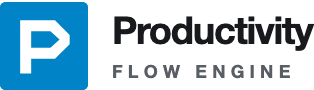
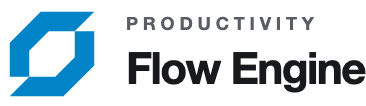
Create an open ribbon identity and Flow Engine wordmark

diff --git a/web/src/styles.css b/web/src/styles.css
@@ -43,8 +43,8 @@ input[type=date]{color-scheme:inherit} textarea{resize:vertical} summary{cursor:
 /* A compact, shared navigation leaves the width of the screen for the work. */
 .app-shell{min-height:100vh}
 .workspace-header{position:sticky;top:0;z-index:10;display:flex;align-items:center;gap:24px;min-height:84px;padding:14px max(28px,calc((100vw - 1480px)/2));border-bottom:1px solid var(--line);background:var(--surface)}
-.brand{display:flex;align-items:center;gap:12px;flex-shrink:0;color:var(--text);font-size:19px;font-weight:700;letter-spacing:-.65px;line-height:1.1}
-.brand-mark{display:block;flex-shrink:0;width:44px;height:44px;border-radius:3px;background:var(--primary)}.brand-mark img{display:block;width:100%;height:100%}.brand-wordmark{display:grid;gap:6px}.brand-name{display:block}.brand-sub{display:block;font-size:9px;letter-spacing:2.6px;line-height:1;color:var(--muted);font-weight:650}
+.brand{display:flex;align-items:center;gap:11px;flex-shrink:0;color:var(--text);line-height:1}
+.brand-mark{display:block;flex-shrink:0;width:52px;height:52px}.brand-mark img{display:block;width:100%;height:100%}.brand-wordmark{display:grid;gap:7px}.brand-name{display:block;font-size:22px;font-weight:750;letter-spacing:-.8px;line-height:1.05}.brand-sub{display:block;font-size:9px;letter-spacing:2.4px;line-height:1;color:var(--muted);font-weight:650}
 .workspace-header nav{display:flex;align-items:center;gap:4px;margin:auto}
 .nav-item{display:flex;align-items:center;justify-content:center;gap:7px;background:none;color:var(--muted);border:1px solid transparent;border-radius:2px;padding:11px 10px;font-size:12px;font-weight:550;min-height:44px;white-space:nowrap}
 .nav-item:hover{background:var(--surface-soft);color:var(--text)}
@@ -156,9 +156,9 @@ main.public-page{margin:auto;max-width:920px;padding:26px}.privacy-toolbar{displ
 @media(max-width:1270px){.workspace-header{gap:15px;padding:14px 22px;flex-wrap:wrap}.workspace-header nav{order:3;width:100%;margin:0;justify-content:center}.topbar-actions{margin-left:auto}.has-result .source-column{top:155px;max-height:calc(100vh - 177px)}}
 @media(max-width:1100px){.extraction-grid{grid-template-columns:minmax(0,1fr)}.has-result .source-column{position:static;max-height:none;overflow:visible;scrollbar-gutter:auto;padding:0}.review-placeholder{min-height:0}.review-placeholder .plan-principles{grid-template-columns:repeat(3,minmax(0,1fr));gap:18px}.review-placeholder h2{max-width:none}.workspace-summary{grid-template-columns:repeat(2,minmax(0,1fr))}.metric-card:nth-child(2){border-right:0}.metric-card:nth-child(-n+2){border-bottom:1px solid var(--line)}.history-filters{grid-template-columns:1fr 1fr}.auth-layout{gap:50px;margin-top:30px}.auth-story h1{font-size:48px}.auth-card{padding:28px}}
 @media(max-width:760px){
- .workspace-header{position:static;padding:18px 16px 13px;gap:20px 12px}.brand{font-size:17px;gap:10px}.brand-mark{width:36px;height:36px}.brand-wordmark{gap:5px}.brand-sub{font-size:8px;letter-spacing:2.3px}.workspace-header nav{display:grid;grid-template-columns:repeat(3,minmax(0,1fr));gap:5px}.nav-item{width:100%;white-space:normal;font-size:11px;line-height:1.4;min-height:46px;gap:6px;padding:8px 7px}.nav-item svg{flex-shrink:0;width:15px;height:15px}.topbar-actions{gap:6px;flex-wrap:wrap;justify-content:flex-start}.theme-control{font-size:10px}.account-name{max-width:110px}.topbar-actions .text-button{font-size:11px;padding:4px}.topbar{padding:18px 18px 0;font-size:10px}.local-badge{font-size:10px}.content{padding:24px 18px 20px}.page-intro{margin-bottom:24px}.page-intro h1{font-size:29px}.extraction-intro h1{font-size:38px;letter-spacing:-1.8px;max-width:460px}.intro-note{display:none}.page-intro p{font-size:13px}.steps{gap:15px;justify-content:space-between;font-size:10px}.steps span{gap:7px}.steps b{width:23px;height:23px}.transcript-panel,.saved-source-panel,.proposal-card,.confirmed-card{padding:20px}.panel-heading{gap:12px;flex-wrap:wrap}.panel-heading h2{font-size:18px}.welcome-actions{flex-direction:column}.welcome-actions .button{width:100%;flex:none}.transcript{min-height:260px}.review-placeholder{padding:24px}.review-placeholder .plan-principles{grid-template-columns:1fr}.review-placeholder h2{font-size:25px}.workspace-summary{gap:0}.metric-card{padding:16px}.metric-card>strong{font-size:29px}.metric-card>span,.metric-card>small{font-size:11px}.field-row{gap:12px}.evidence{padding:14px}.evidence-footer{display:block}.evidence-jump{display:flex}.confirm-bar{padding:14px;gap:12px;flex-wrap:wrap}.confirm-bar .button{flex:1}.confirm-bar strong{font-size:12px}.confirm-bar span{font-size:11px}.section-heading{flex-wrap:wrap;align-items:flex-start}.section-heading h2{font-size:19px}.result-meta{flex-wrap:wrap}.history-filters{grid-template-columns:1fr;padding:20px}.history-card{flex-wrap:wrap;padding:20px}.history-copy{flex-basis:100%}.history-card>.button{width:100%}.history-title h3{font-size:15px}.stat-grid{gap:10px}.stat{padding:16px}.stat>strong{font-size:26px}.stat>span{font-size:9px}.stat small{font-size:11px}.benchmark-panel,.case-panel,.annotation-panel,.data-panel{padding:20px}.case-columns{grid-template-columns:1fr}.event-time{display:block;float:none;margin-top:6px}.storage-grid{grid-template-columns:1fr}.data-entry{align-items:flex-start;gap:12px}.data-entry .badge{display:block;margin:8px 0}.annotation-case{flex-direction:column;align-items:flex-start}.annotation-panel .field-row{grid-template-columns:minmax(0,1fr)}.annotation-panel .button{max-width:100%;white-space:normal;overflow-wrap:anywhere}.erasure-dialog{padding:20px}.meeting-actions{justify-content:flex-start}.meeting-actions .button{flex:1}.page-footer{font-size:10px;gap:14px}.json{font-size:11px;padding:13px}.auth-header{min-height:80px;align-items:center}main.auth-shell{padding:0 18px 25px}.auth-layout{grid-template-columns:minmax(0,1fr);gap:32px;margin:28px auto 40px}.auth-story h1{font-size:44px;letter-spacing:-2px}.auth-story>p{font-size:14px}.auth-features{display:none}.story-steps{grid-template-columns:repeat(2,minmax(0,1fr));margin-top:25px}.auth-card{padding:25px}.auth-footer{font-size:10px}main.public-page{padding:18px}.privacy-copy{padding:23px}.privacy-copy h1{font-size:29px}
+ .workspace-header{position:static;padding:18px 16px 13px;gap:20px 12px}.brand{gap:9px}.brand-mark{width:42px;height:42px}.brand-wordmark{gap:6px}.brand-name{font-size:20px;letter-spacing:-.65px}.brand-sub{font-size:8px;letter-spacing:2.3px}.workspace-header nav{display:grid;grid-template-columns:repeat(3,minmax(0,1fr));gap:5px}.nav-item{width:100%;white-space:normal;font-size:11px;line-height:1.4;min-height:46px;gap:6px;padding:8px 7px}.nav-item svg{flex-shrink:0;width:15px;height:15px}.topbar-actions{gap:6px;flex-wrap:wrap;justify-content:flex-start}.theme-control{font-size:10px}.account-name{max-width:110px}.topbar-actions .text-button{font-size:11px;padding:4px}.topbar{padding:18px 18px 0;font-size:10px}.local-badge{font-size:10px}.content{padding:24px 18px 20px}.page-intro{margin-bottom:24px}.page-intro h1{font-size:29px}.extraction-intro h1{font-size:38px;letter-spacing:-1.8px;max-width:460px}.intro-note{display:none}.page-intro p{font-size:13px}.steps{gap:15px;justify-content:space-between;font-size:10px}.steps span{gap:7px}.steps b{width:23px;height:23px}.transcript-panel,.saved-source-panel,.proposal-card,.confirmed-card{padding:20px}.panel-heading{gap:12px;flex-wrap:wrap}.panel-heading h2{font-size:18px}.welcome-actions{flex-direction:column}.welcome-actions .button{width:100%;flex:none}.transcript{min-height:260px}.review-placeholder{padding:24px}.review-placeholder .plan-principles{grid-template-columns:1fr}.review-placeholder h2{font-size:25px}.workspace-summary{gap:0}.metric-card{padding:16px}.metric-card>strong{font-size:29px}.metric-card>span,.metric-card>small{font-size:11px}.field-row{gap:12px}.evidence{padding:14px}.evidence-footer{display:block}.evidence-jump{display:flex}.confirm-bar{padding:14px;gap:12px;flex-wrap:wrap}.confirm-bar .button{flex:1}.confirm-bar strong{font-size:12px}.confirm-bar span{font-size:11px}.section-heading{flex-wrap:wrap;align-items:flex-start}.section-heading h2{font-size:19px}.result-meta{flex-wrap:wrap}.history-filters{grid-template-columns:1fr;padding:20px}.history-card{flex-wrap:wrap;padding:20px}.history-copy{flex-basis:100%}.history-card>.button{width:100%}.history-title h3{font-size:15px}.stat-grid{gap:10px}.stat{padding:16px}.stat>strong{font-size:26px}.stat>span{font-size:9px}.stat small{font-size:11px}.benchmark-panel,.case-panel,.annotation-panel,.data-panel{padding:20px}.case-columns{grid-template-columns:1fr}.event-time{display:block;float:none;margin-top:6px}.storage-grid{grid-template-columns:1fr}.data-entry{align-items:flex-start;gap:12px}.data-entry .badge{display:block;margin:8px 0}.annotation-case{flex-direction:column;align-items:flex-start}.annotation-panel .field-row{grid-template-columns:minmax(0,1fr)}.annotation-panel .button{max-width:100%;white-space:normal;overflow-wrap:anywhere}.erasure-dialog{padding:20px}.meeting-actions{justify-content:flex-start}.meeting-actions .button{flex:1}.page-footer{font-size:10px;gap:14px}.json{font-size:11px;padding:13px}.auth-header{min-height:80px;align-items:center}main.auth-shell{padding:0 18px 25px}.auth-layout{grid-template-columns:minmax(0,1fr);gap:32px;margin:28px auto 40px}.auth-story h1{font-size:44px;letter-spacing:-2px}.auth-story>p{font-size:14px}.auth-features{display:none}.story-steps{grid-template-columns:repeat(2,minmax(0,1fr));margin-top:25px}.auth-card{padding:25px}.auth-footer{font-size:10px}main.public-page{padding:18px}.privacy-copy{padding:23px}.privacy-copy h1{font-size:29px}
 }
-@media(max-width:380px){.workspace-header{gap:16px 10px}.topbar-actions{width:100%;margin:0}.workspace-header nav{order:2}.topbar-actions{order:3}.topbar{font-size:10px;padding-inline:13px}.local-badge{display:none}.content{padding-inline:13px}.steps{flex-wrap:wrap;gap:9px;justify-content:flex-start}.extraction-intro h1{font-size:34px}.stat-grid{grid-template-columns:1fr}.field-row{grid-template-columns:1fr}.proposal-heading{flex-wrap:wrap}.keep{margin-left:0}.workspace-summary{grid-template-columns:1fr 1fr}.metric-card{padding:13px}.transcript-panel,.saved-source-panel,.proposal-card,.confirmed-card{padding:17px}.settings{flex-wrap:wrap}.settings label{min-width:115px}.auth-story h1{font-size:38px}.brand{font-size:17px}}
+@media(max-width:380px){.workspace-header{gap:16px 10px}.topbar-actions{width:100%;margin:0}.workspace-header nav{order:2}.topbar-actions{order:3}.topbar{font-size:10px;padding-inline:13px}.local-badge{display:none}.content{padding-inline:13px}.steps{flex-wrap:wrap;gap:9px;justify-content:flex-start}.extraction-intro h1{font-size:34px}.stat-grid{grid-template-columns:1fr}.field-row{grid-template-columns:1fr}.proposal-heading{flex-wrap:wrap}.keep{margin-left:0}.workspace-summary{grid-template-columns:1fr 1fr}.metric-card{padding:13px}.transcript-panel,.saved-source-panel,.proposal-card,.confirmed-card{padding:17px}.settings{flex-wrap:wrap}.settings label{min-width:115px}.auth-story h1{font-size:38px}}
 @media(prefers-reduced-motion:reduce){*{transition:none!important;scroll-behavior:auto!important}}
 /* Review workspaces: concise summaries, explicit decisions, and readable events. */
 [hidden]{display:none!important}

diff --git a/web/src/ProductBrand.jsx b/web/src/ProductBrand.jsx
@@ -1,4 +1,4 @@
 import React from 'react';
 export default function ProductBrand({onClick,href='/'}){
-  return <a href={href} className="brand" onClick={onClick} aria-label="Productivity Flow Engine home"><span className="brand-mark" aria-hidden="true"><img src="/flow.svg?v=2" width="44" height="44" alt=""/></span><span className="brand-wordmark"><span className="brand-name">Productivity</span><span className="brand-sub">FLOW ENGINE</span></span></a>;
+  return <a href={href} className="brand" onClick={onClick} aria-label="Productivity Flow Engine home"><span className="brand-mark" aria-hidden="true"><img src="/flow.svg?v=3" width="52" height="52" alt=""/></span><span className="brand-wordmark"><span className="brand-sub">PRODUCTIVITY</span><span className="brand-name">Flow Engine</span></span></a>;
 }

diff --git a/web/index.html b/web/index.html
@@ -1,5 +1,5 @@
 <!doctype html>
 <html lang="en"><head><meta charset="UTF-8"/><meta name="viewport" content="width=device-width, initial-scale=1.0"/>
 <meta name="theme-color" content="#ffffff"/><meta name="description" content="Turn meeting transcripts into evidence-backed, reviewed action plans."/>
-<title>Productivity Flow Engine</title><link rel="icon" type="image/svg+xml" href="/flow.svg?v=2"/><script src="/theme.js"></script></head>
+<title>Productivity Flow Engine</title><link rel="icon" type="image/svg+xml" href="/flow.svg?v=3"/><script src="/theme.js"></script></head>
 <body><div id="root"></div><script type="module" src="/src/main.jsx"></script></body></html>

diff --git a/README.md b/README.md
@@ -17,11 +17,12 @@ history. Extraction improvements are measured against a retained annotated corpu
   <img src="docs/screenshots/brand-light.png" alt="Productivity Flow Engine brand" width="220">
 </picture>
 
-The geometric P mark uses a forward-arrow cutout to suggest progress into action.
-The shared header lockup pairs it with a tighter two-line wordmark, with a square
-mark on desktop and mobile. The same [SVG mark](web/public/flow.svg) is used for
+The mark interlocks two geometric ribbons with forward diagonal
+cuts, suggesting conversation flowing into action. Its open silhouette sits beside
+a prominent Flow Engine wordmark, with Productivity as the smaller descriptor. The same [SVG mark](web/public/flow.svg) is used for
 workspace and sign-in branding and the browser favicon. It uses the primary blue
-`#0084C7` and white, without shadows or gradients.
+`#0084C7` with no enclosing tile, shadows, or gradients. The SVG stays crisp at
+favicon sizes and on larger brand surfaces.
 
 ## A clearer review workspace
 
